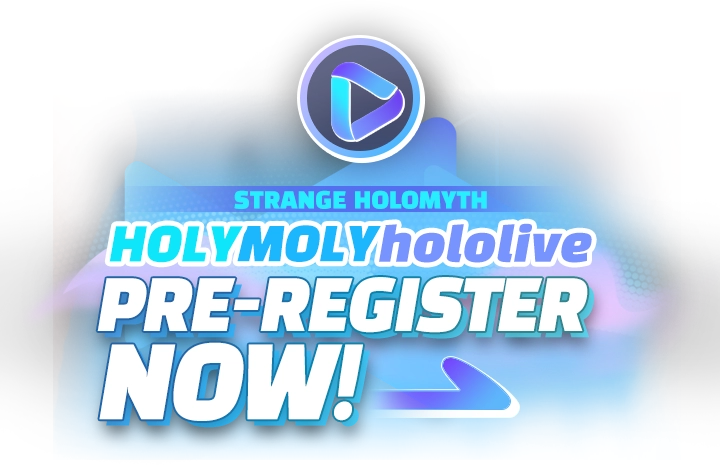
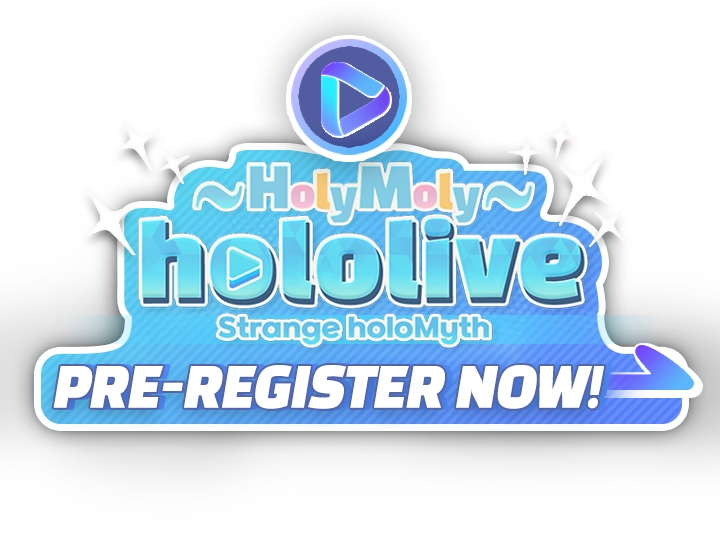
최종 수정 사항 반영

diff --git a/resources/css/style.css b/resources/css/style.css
@@ -10,7 +10,7 @@ html {scroll-behavior: smooth;font-family:'NanumSquareRound';}
 
 .wrap {position:relative;width:100%;min-height:100vh;}
 
-.main_visual {position:relative;margin:0 auto;max-width:2543px;height:1280px;overflow:hidden;background:url(../img/main_visual_bg.png) 50% 0 repeat-x;}
+.main_visual {position:relative;margin:0 auto;max-width:2543px;height:1280px;overflow:hidden;background:url(../img/main_visual_bg.webp) 50% 0 repeat-x;}
 .main_visual_characters {display:flex;justify-content:center;}
 .main_visual_text {position:absolute;bottom: 215px;left:50%;margin-left: -567px;z-index:3;}
 .main_visual_text_m {display:none;}
@@ -24,9 +24,9 @@ html {scroll-behavior: smooth;font-family:'NanumSquareRound';}
 .main_nav .nav_items a:hover:before {content:"";width:14px;height:17px;position:absolute;top:13px;left:-20px;background:url(../img/nav_item_o.webp) 0 0 no-repeat;}
 
 
-.main_form {display:flex;justify-content:center;font-size:0;overflow:hidden;max-width:2543px;margin:0 auto;height:1605px;background:url(../img/main_form_bg.png) 50% 0 no-repeat;}
+.main_form {display:flex;justify-content:center;font-size:0;overflow:hidden;max-width:2543px;margin:0 auto;height:1605px;background:url(../img/main_form_bg.webp) 50% 0 no-repeat;}
 .main_form .form_top,
-.main_form .form_bottom {display:none;}
+.main_form .form_cura {display:none;}
 
 .main_form form {margin-top: 547px;}
 .main_form .form_input input {width:1196px;border: 0 none;border-radius:30px;margin-left:85px;height:87px;box-sizing:border-box;text-align:center;font-size:45px;color:#a6dced;font-weight:bold;background-color: transparent;}
@@ -42,45 +42,45 @@ html {scroll-behavior: smooth;font-family:'NanumSquareRound';}
 .main_form .form_agree .agree_item input[type="checkbox"]:checked + label:before {background-image:url(../img/form_checkbox_o.webp);}
 
 .main_form .form_btn {margin-top:80px;margin-left:58px;}
-.main_form .form_btn button {border:0 none;width:819px;height:225px;background:transparent url(../img/main_form_btn.png) 0 0 no-repeat;cursor:pointer;}
-.main_form .form_btn button.on {background-image:url(../img/main_form_btn_o.png);}
+.main_form .form_btn button {border:0 none;width:819px;height:225px;background:transparent url(../img/main_form_btn.webp) 0 0 no-repeat;cursor:pointer;}
+.main_form .form_btn button.on {background-image:url(../img/main_form_btn_o.webp);}
 
-.main_rewards {display:flex;justify-content:center;align-items:center;flex-direction:column;font-size:0;overflow:hidden;max-width:2543px;height:1417px;margin:0 auto;background:url(../img/main_rewards_bg.png) 50% 0 no-repeat;}
+.main_rewards {display:flex;justify-content:center;align-items:center;flex-direction:column;font-size:0;overflow:hidden;max-width:2543px;height:1417px;margin:0 auto;background:url(../img/main_rewards_bg.webp) 50% 0 no-repeat;}
 
 .reward_box {position:absolute;top:50%;left:50%;margin-top: 286px;margin-left: -460px;max-width:1040px;}
-.reward_box .reward_item {float:left;margin:13px 7px 0 0;width:337px;height:230px;background:url(../img/reward_item_1.png) 0 0 no-repeat;}
-.reward_box .reward_item.complate {background-image:url(../img/reward_item_1_c.png);}
-.reward_box .reward_item:nth-child(2) {background-image:url(../img/reward_item_2.png);}
-.reward_box .reward_item.complate:nth-child(2) {background-image:url(../img/reward_item_2_c.png);}
-.reward_box .reward_item:nth-child(3) {background-image:url(../img/reward_item_3.png);}
-.reward_box .reward_item.complate:nth-child(3) {background-image:url(../img/reward_item_3_c.png);}
-.reward_box .reward_item:nth-child(4) {background-image:url(../img/reward_item_4.png);}
-.reward_box .reward_item.complate:nth-child(4) {background-image:url(../img/reward_item_4_c.png);}
-.reward_box .reward_item:nth-child(5) {background-image:url(../img/reward_item_5.png);}
-.reward_box .reward_item.complate:nth-child(5) {background-image:url(../img/reward_item_5_c.png);}
-.reward_box .reward_item:nth-child(6) {background-image:url(../img/reward_item_6.png);}
-.reward_box .reward_item.complate:nth-child(6) {background-image:url(../img/reward_item_6_c.png);}
+.reward_box .reward_item {float:left;margin:13px 7px 0 0;width:337px;height:230px;background:url(../img/reward_item_1.webp) 0 0 no-repeat;}
+.reward_box .reward_item.complate {background-image:url(../img/reward_item_1_c.webp);}
+.reward_box .reward_item:nth-child(2) {background-image:url(../img/reward_item_2.webp);}
+.reward_box .reward_item.complate:nth-child(2) {background-image:url(../img/reward_item_2_c.webp);}
+.reward_box .reward_item:nth-child(3) {background-image:url(../img/reward_item_3.webp);}
+.reward_box .reward_item.complate:nth-child(3) {background-image:url(../img/reward_item_3_c.webp);}
+.reward_box .reward_item:nth-child(4) {background-image:url(../img/reward_item_4.webp);}
+.reward_box .reward_item.complate:nth-child(4) {background-image:url(../img/reward_item_4_c.webp);}
+.reward_box .reward_item:nth-child(5) {background-image:url(../img/reward_item_5.webp);}
+.reward_box .reward_item.complate:nth-child(5) {background-image:url(../img/reward_item_5_c.webp);}
+.reward_box .reward_item:nth-child(6) {background-image:url(../img/reward_item_6.webp);}
+.reward_box .reward_item.complate:nth-child(6) {background-image:url(../img/reward_item_6_c.webp);}
 .reward_box .reward_item img {display:none;}
-.reward_box .reward_box_c {position:absolute;bottom: -83px;right: -86px;width:167px;height:184px;background:url(../img/reward_box_c.png) 0 0 no-repeat;}
+.reward_box .reward_box_c {position:absolute;bottom: -83px;right: -86px;width:167px;height:184px;background:url(../img/reward_box_c.webp) 0 0 no-repeat;}
 .reward_complate {margin-top:25px;margin-left: 220px;width:1109px;height:254px;background:url(../img/reward_item_all.webp) 0 0 no-repeat;}
 .reward_complate img {display:none;}
 .reward_complate.complate {background-image:url(../img/reward_item_all_c.webp);}
 .reward_area {display:none;}
 .reward_c {display:none;}
 
-.main_media {display:flex;justify-content:center;align-items:center;flex-direction:column;font-size:0;overflow:hidden;max-width:2543px;height:1438px;margin:0 auto;background:url(../img/main_media_bg.png) 50% 0 no-repeat;}
+.main_media {display:flex;justify-content:center;align-items:center;flex-direction:column;font-size:0;overflow:hidden;max-width:2543px;height:1438px;margin:0 auto;background:url(../img/main_media_bg.webp) 50% 0 no-repeat;}
 .media_box {display:flex;margin-top:65px;}
 .media_item {width:395px;height:741px;background-position:0 0;background-repeat:no-repeat;cursor:pointer;}
-.media_item.media1 {background-image:url(../img/media_item_1.png);}
-.media_item.media2 {background-image:url(../img/media_item_2.png);}
-.media_item.media3 {background-image:url(../img/media_item_3.png);}
-.media_item.media4 {background-image:url(../img/media_item_4.png);}
-.media_item.media5 {background-image:url(../img/media_item_5.png);}
-.media_item.media1:hover {background-image:url(../img/media_item_1_o.png);}/*animation:blur .3s;*/
-.media_item.media2:hover {background-image:url(../img/media_item_2_o.png);}/*animation:blur .3s;*/
-.media_item.media3:hover {background-image:url(../img/media_item_3_o.png);}/*animation:blur .3s;*/
-.media_item.media4:hover {background-image:url(../img/media_item_4_o.png);}/*animation:blur .3s;*/
-.media_item.media5:hover {background-image:url(../img/media_item_5_o.png);}/*animation:blur .3s;*/
+.media_item.media1 {background-image:url(../img/media_item_1.webp);}
+.media_item.media2 {background-image:url(../img/media_item_2.webp);}
+.media_item.media3 {background-image:url(../img/media_item_3.webp);}
+.media_item.media4 {background-image:url(../img/media_item_4.webp);}
+.media_item.media5 {background-image:url(../img/media_item_5.webp);}
+.media_item.media1:hover {background-image:url(../img/media_item_1_o.webp);}/*animation:blur .3s;*/
+.media_item.media2:hover {background-image:url(../img/media_item_2_o.webp);}/*animation:blur .3s;*/
+.media_item.media3:hover {background-image:url(../img/media_item_3_o.webp);}/*animation:blur .3s;*/
+.media_item.media4:hover {background-image:url(../img/media_item_4_o.webp);}/*animation:blur .3s;*/
+.media_item.media5:hover {background-image:url(../img/media_item_5_o.webp);}/*animation:blur .3s;*/
 .main_media .media_top,
 .main_media .media_bottom {display:none;}
 @keyframes blur {
@@ -161,7 +161,7 @@ html {scroll-behavior: smooth;font-family:'NanumSquareRound';}
 
 @media (max-width:1024px) {
 
-    .main_visual {max-width:100%;height:auto;background:url(../img/m/visual_bg.png) 0 0 no-repeat;background-size:100% auto;}
+    .main_visual {max-width:100%;height:auto;background:url(../img/m/visual_bg.webp) 0 0 no-repeat;background-size:100% auto;}
 
     .main_visual_logo {display:none;}
     .main_visual_characters {display:none;}
@@ -179,14 +179,17 @@ html {scroll-behavior: smooth;font-family:'NanumSquareRound';}
     .main_nav,
     .main_nav.on {display:none;}
 
-    .main_form {position:relative;background:url(../img/m/form_bg.png) 0 100% no-repeat;background-size:100%;max-width:100%;max-height:none;width:100%;flex-direction:column;width:auto;height:auto;margin:0;font-size:0;}
+    .main_form {position:relative;background-size:100% 100%;max-width:100%;max-height:none;width:100%;flex-direction:column;width:auto;height:auto;margin:0;font-size:0;}
+    .main_form .form_top,
+    .main_form .form_cura {display:block;}
+    .main_form .form_bottom {background:url(../img/m/form_bg.webp) 0 100% no-repeat;background-size:cover;max-width:100%;max-height:auto;}
     .main_form .form_top img,
-    .main_form .form_bottom img {width:100%;}
+    .main_form .form_cura img {width:100%;}
     .main_form .form_area img {width:100%;}
     .main_form form {padding:0 20px;margin-top:0;}
-    .main_form .form_input input {width:100%;border-width:3px;margin-left:0;height:40px;font-size:16px;border-radius:10px;}
-    .main_form .form_agree {margin:15px 0 0 0;background-color:#ebf3f6;border-radius:10px;padding:15px;}
-    .main_form .form_agree .agree_item label {position:relative;line-height:40px;min-height:42px;border-bottom:2px solid #e2edf2;display:flex;align-items:center;}
+    .main_form .form_input input {width:100%;margin-left:0;height:40px;font-size:16px;border-radius:10px;background-color:#fff;border:3px solid #000;box-shadow:10px 10px 18px rgba(0,0,0,0.4);}
+    .main_form .form_agree {margin:15px 0 0 0;background-color:#dbe7ed;border-radius:10px;padding:15px;box-shadow:10px 10px 18px rgba(0,0,0,0.4);}
+    .main_form .form_agree .agree_item label {position:relative;line-height:40px;min-height:42px;border-bottom:2px solid #fff;display:flex;align-items:center;}
     .main_form .form_agree .agree_item label:before {position:absolute;top:50%;left:0;width:24px;height:24px;background-size:100%;margin-right:10px;margin-top:-12px;}
     .main_form .form_agree .agree_item label span {font-size:13px;line-height:15px;padding:5px 0 5px 35px;box-sizing:border-box;border:0 none;}
     .main_form .form_btn {margin:10px -10px 0 -10px;}
@@ -216,15 +219,26 @@ html {scroll-behavior: smooth;font-family:'NanumSquareRound';}
 
     .main_rewards {position:relative;display:block;background-image:url(../img/m/reward_bg.webp);background-size:100%;width:100%;height:auto;}
     .reward_box {position:absolute;top: 25%;left:8%;right:8%;display:block;margin:0;}
-    .reward_box .reward_item {margin:0;width:100%;height:auto;background:url(../img/m/reward_item.webp) 0 0 no-repeat;background-size:100%;margin-top:5px;}
-    .reward_box .reward_item.complate {background-image:url(../img/m/reward_item_c.webp);}
+    .reward_box .reward_item {margin:0 1%;width:48%;height:auto;background-image:url(../img/m/reward_item_1.webp);background-size:100%;margin-top:5px;}
     .reward_box .reward_item img {display:block;width:100%;}
+    .reward_box .reward_item.complate {background-image:url(../img/m/reward_item_1_c.webp);}
+    .reward_box .reward_item:nth-child(2) {background-image:url(../img/m/reward_item_2.webp);}
+    .reward_box .reward_item.complate:nth-child(2) {background-image:url(../img/m/reward_item_2_c.webp);}
+    .reward_box .reward_item:nth-child(3) {background-image:url(../img/m/reward_item_3.webp);}
+    .reward_box .reward_item.complate:nth-child(3) {background-image:url(../img/m/reward_item_3_c.webp);}
+    .reward_box .reward_item:nth-child(4) {background-image:url(../img/m/reward_item_4.webp);}
+    .reward_box .reward_item.complate:nth-child(4) {background-image:url(../img/m/reward_item_4_c.webp);}
+    .reward_box .reward_item:nth-child(5) {background-image:url(../img/m/reward_item_5.webp);}
+    .reward_box .reward_item.complate:nth-child(5) {background-image:url(../img/m/reward_item_5_c.webp);}
+    .reward_box .reward_item:nth-child(6) {background-image:url(../img/m/reward_item_6.webp);}
+    .reward_box .reward_item.complate:nth-child(6) {background-image:url(../img/m/reward_item_6_c.webp);}
     .reward_complate {position:absolute;left:8%;right:8%;bottom: 17%;margin:0;width:auto;height:auto;background-image:url(../img/m/reward_item_all.webp);background-size:100%;}
     .reward_complate.complate {background-image:url(../img/m/reward_item_all_c.webp);}
     .reward_complate img {display:block;width:100%;}
     .reward_area {display:block;}
     .reward_area img {width:100%;}
-    .reward_c {position:absolute;display:block;width:100%;height:100%;left:0;bottom:0;background:url(../img/m/reword_kiria.webp) left bottom no-repeat;background-size:58%;}
+    .reward_c {position:absolute;display:block;width:100%;height:100%;left:0;bottom:0;background:url(../img/m/reword_kiria.webp) left bottom no-repeat;background-size:54%;}
+    .reward_box_c {display:none;}
 
     .media_pop {z-index:30;}
     .media_pop .pop_close {top:15px;right:15px;left:auto;margin:0;}

diff --git a/index.html b/index.html
@@ -11,17 +11,17 @@
 <body>
 <div class="wrap" id="Home">
     <div class="main_visual">
-        <div class="main_visual_text"><a href="#Form"><img src="resources/img/main_visual_text.png"></a></div>
-        <div class="main_visual_text_m"><a href="#Form"><img src="resources/img/m/visual_text.png"></a></div>
+        <div class="main_visual_text"><a href="#Form"><img src="resources/img/main_visual_text.webp" alt="HolyMoly Hololive Strange holoMyth PRE-REGISTER NOW!"></a></div>
+        <div class="main_visual_text_m"><a href="#Form"><img src="resources/img/m/visual_text.webp" alt="HolyMoly Hololive Strange holoMyth PRE-REGISTER NOW!"></a></div>
         <div class="main_visual_btns">
-            <a href="https://store.steampowered.com/app/1976440/CounterSide" target="_blank"><img src="resources/img/btn_steam.webp"></a>
-            <a href="https://play.google.com/store/apps/details?id=com.studiobside.CounterSide" target="_blank"><img src="resources/img/btn_playstore.webp"></a>
-            <a href="https://apps.apple.com/us/app/counterside/id1309394370" target="_blank"><img src="resources/img/btn_appstore.webp"></a>
+            <a href="https://store.steampowered.com/app/1976440/CounterSide" target="_blank"><img src="resources/img/btn_steam.webp" alt="PLAY ON STEAM"></a>
+            <a href="https://play.google.com/store/apps/details?id=com.studiobside.CounterSide" target="_blank"><img src="resources/img/btn_playstore.webp" alt="GET IT ON Google Play"></a>
+            <a href="https://apps.apple.com/us/app/counterside/id1309394370" target="_blank"><img src="resources/img/btn_appstore.webp" alt="Download on the App Store"></a>
         </div>
-        <div class="main_visual_area"><img src="resources/img/m/main_visaul_area.png"></div>
+        <div class="main_visual_area"><img src="resources/img/m/main_visaul_area.webp" alt="Visual Area"></div>
     </div>
     <div class="main_nav">
-        <div class="nav_logo"><a href="#Home"><img src="resources/img/main_nav_logo.png"></a></div>
+        <div class="nav_logo"><a href="#Home"><img src="resources/img/main_nav_logo.webp" alt="MYTH X COUNTER SIDE"></a></div>
         <div class="nav_items">
             <a href="#Home">Home</a>
             <a href="#Form">Pre-Register</a>
@@ -31,7 +31,7 @@
     </div>
     <div class="main_nav_m">
         <div class="nav_head">
-            <div class="nav_logo"><a href="#Home"><img src="resources/img/m/gnb_logo.webp"></a></div>
+            <div class="nav_logo"><a href="#Home"><img src="resources/img/m/gnb_logo.webp" alt="MYTH X COUNTER SIDE"></a></div>
             <div class="nav_btn"></div>
         </div>
         <div class="nav_body">
@@ -53,17 +53,19 @@
     </div>
     <div class="main_form" id="Form">
         <div class="form_top"><img src="resources/img/m/form_top.webp"></div>
-        <form>
-            <div class="form_input"><input type="text" placeholder="Your Email Address"></div>
-            <div class="form_agree">
-                <div class="agree_item"><input type="checkbox" id="agree_1" checked><label for="agree_1"><span>I have read and acknowledge the <a href="https://counterside.com/?page_id=859" target="_blank">Privacy Policy</a> and <a href="https://counterside.com/?page_id=854" target="_blank">Terms of Service</a>.</span></label></div>
-                <div class="agree_item"><input type="checkbox" id="agree_2"><label for="agree_2"><span>I agree to receive the news and promotional offers by email.</span></label></div>
-            </div>
-            <div class="form_btn">
-                <button type="submit" class="on"><img src="resources/img/m/form_btn_area.webp"></button>
-            </div>
-        </form>
-        <div class="form_bottom"><img src="resources/img/m/form_bottom.webp"></div>
+        <div class="form_bottom">
+            <form>
+                <div class="form_input"><input type="text" placeholder="Your Email Address"></div>
+                <div class="form_agree">
+                    <div class="agree_item"><input type="checkbox" id="agree_1" checked><label for="agree_1"><span>I have read and acknowledge the <a href="https://counterside.com/?page_id=859" target="_blank">Privacy Policy</a> and <a href="https://counterside.com/?page_id=854" target="_blank">Terms of Service</a>.</span></label></div>
+                    <div class="agree_item"><input type="checkbox" id="agree_2"><label for="agree_2"><span>I agree to receive the news and promotional offers by email.</span></label></div>
+                </div>
+                <div class="form_btn">
+                    <button type="submit" class="on"><img src="resources/img/m/form_btn_area.webp"></button>
+                </div>
+            </form>
+            <div class="form_cura"><img src="resources/img/m/form_bottom.webp"></div>
+        </div>
     </div>
     <div class="main_rewards" id="Reward">
         <div class="reward_box">
